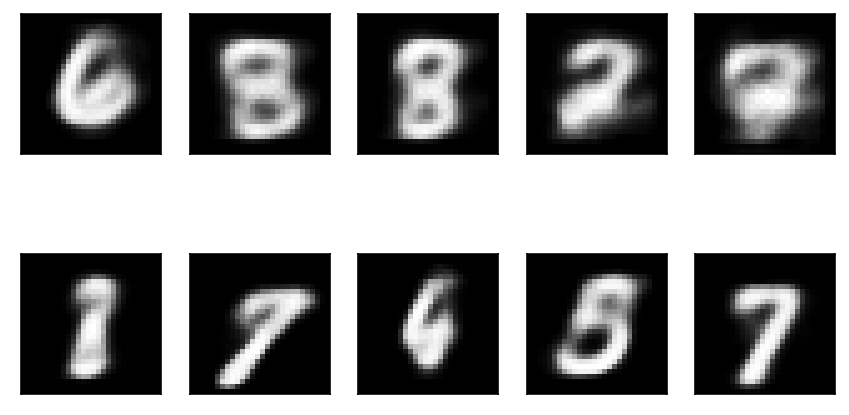
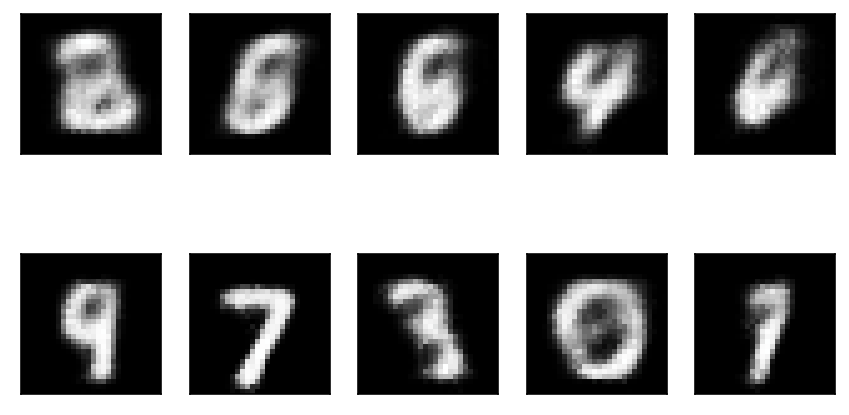
MNIST sanity check for ConvVAE

diff --git a/docs/spatial-vae.html b/docs/spatial-vae.html
@@ -1,7 +1,7 @@
 <!DOCTYPE html>
 <html lang="en">
 <head>
-<!-- 2020-10-01 Thu 17:04 -->
+<!-- 2020-10-06 Tue 13:50 -->
 <meta charset="utf-8">
 <meta name="viewport" content="width=device-width, initial-scale=1">
 <title>Convolutional VAE for spatial transcriptomic data</title>
@@ -385,6 +385,7 @@ learned \(\vz_j\).</li>
 <span class="org-keyword">import</span> torch.utils.data <span class="org-keyword">as</span> td
 <span class="org-keyword">import</span> torch.utils.tensorboard <span class="org-keyword">as</span> tb
 <span class="org-keyword">import</span> torchvision <span class="org-keyword">as</span> tv
+<span class="org-keyword">import</span> umap
 </pre>
 </div>
 
@@ -418,7 +419,8 @@ cancer</a> (10X Genomics Visium v1.1.0)</li>
 olfactory bulb</a> (HDST;
 <a href="https://www.nature.com/articles/s41592-019-0548-y">Vikovic et
 al. 2019</a>)</li>
-<li>Human spinal cord
+<li><a href="https://www.ncbi.nlm.nih.gov/geo/query/acc.cgi?acc=GSE120374">Human
+spinal cord</a>
 (<a href="https://science.sciencemag.org/content/364/6435/89.full">Maniatis et
 al. 2019</a>)</li>
 <li>Mouse cerebellum (SLIDE-Seq;
@@ -433,7 +435,7 @@ al. 2018</a>)</li>
 <li>Human melanoma (ST;
 <a href="https://cancerres.aacrjournals.org/content/78/20/5970.short">Thrane et
 al. 2018</a>)</li>
-<li>Human heart (ST; <a href="https://www.nature.com/articles/s41598-018-27627-3">Asp
+<li>Human heart (ST; <a href="https://www.nature.com/articles/s41598-017-13462-5">Asp
 et al. 2017</a>)</li>
 <li>Human breast cancer (ST;
 <a href="https://science.sciencemag.org/content/353/6294/78">Ståhl et al. 2016</a>)</li>
@@ -453,7 +455,9 @@ et al. 2017</a>)</li>
 <div class="outline-text-3" id="text-orge61c045">
 <p>
 Implement a VAE using convolutional layers instead of fully connected
-layers.
+layers. Refer to
+<a href="https://www.jeremyjordan.me/convnet-architectures/">&ldquo;Common architectures
+in convolutional neural networks&rdquo;</a>.
 </p>
 
 <div class="org-src-container">
@@ -461,12 +465,12 @@ layers.
   <span class="org-keyword">def</span> <span class="org-function-name">__init__</span>(<span class="org-keyword">self</span>, input_h, input_w, output_dim):
     <span class="org-builtin">super</span>().__init__()
     <span class="org-keyword">self</span>.net = torch.nn.Sequential(
-      torch.nn.Conv2d(in_channels=1, out_channels=32, kernel_size=3, padding=1),
+      torch.nn.Conv2d(in_channels=1, out_channels=16, kernel_size=3, padding=1, stride=2),
       torch.nn.ReLU(),
-      torch.nn.Conv2d(in_channels=32, out_channels=64, kernel_size=3, padding=1),
+      torch.nn.Conv2d(in_channels=16, out_channels=32, kernel_size=3, padding=1, stride=2),
       torch.nn.ReLU(),
       torch.nn.Flatten(),
-      torch.nn.Linear(64 * input_h * input_w, 1024),
+      torch.nn.Linear(32 * input_h * input_w // 16, 1024),
       torch.nn.ReLU(),
       torch.nn.Linear(1024, 512),
       torch.nn.ReLU(),
@@ -480,29 +484,35 @@ layers.
     <span class="org-variable-name">h</span> = <span class="org-keyword">self</span>.net(x)
     <span class="org-keyword">return</span> <span class="org-keyword">self</span>.mean(h), <span class="org-keyword">self</span>.scale(h)
 
+<span class="org-keyword">class</span> <span class="org-type">Reshape</span>(torch.nn.Module):
+  <span class="org-keyword">def</span> <span class="org-function-name">__init__</span>(<span class="org-keyword">self</span>, shape):
+    <span class="org-builtin">super</span>().__init__()
+    <span class="org-keyword">self</span>.shape = shape
+
+  <span class="org-keyword">def</span> <span class="org-function-name">forward</span>(<span class="org-keyword">self</span>, x):
+    <span class="org-keyword">return</span> torch.reshape(x, <span class="org-keyword">self</span>.shape)
+
 <span class="org-keyword">class</span> <span class="org-type">Decoder</span>(torch.nn.Module):
   <span class="org-keyword">def</span> <span class="org-function-name">__init__</span>(<span class="org-keyword">self</span>, input_dim, output_h, output_w):
     <span class="org-builtin">super</span>().__init__()
-    <span class="org-keyword">self</span>.net1 = torch.nn.Sequential(
+    <span class="org-keyword">self</span>.net = torch.nn.Sequential(
       torch.nn.Linear(input_dim, 512),
       torch.nn.ReLU(),
       torch.nn.Linear(512, 1024),
       torch.nn.ReLU(),
-      torch.nn.Linear(1024, 64 * output_h * output_w),
+      torch.nn.Linear(1024, 32 * output_h * output_w // 16),
       torch.nn.ReLU(),
-    )
-    <span class="org-keyword">self</span>.net2 = torch.nn.Sequential(
-      torch.nn.ConvTranspose2d(in_channels=64, out_channels=32, kernel_size=3, padding=1),
+      Reshape([-1, 32, output_h // 4, output_w // 4]),
+      torch.nn.ConvTranspose2d(in_channels=32, out_channels=16, kernel_size=3, stride=2, padding=1, output_padding=1),
       torch.nn.ReLU(),
-      torch.nn.ConvTranspose2d(in_channels=32, out_channels=1, kernel_size=3, padding=1),
+      torch.nn.ConvTranspose2d(in_channels=16, out_channels=1, kernel_size=3, stride=2, padding=1, output_padding=1),
       torch.nn.Sigmoid(),
     )
     <span class="org-keyword">self</span>.output_h = output_h
     <span class="org-keyword">self</span>.output_w = output_w
 
   <span class="org-keyword">def</span> <span class="org-function-name">forward</span>(<span class="org-keyword">self</span>, x):
-    <span class="org-variable-name">h</span> = <span class="org-keyword">self</span>.net1(x).reshape([-1, 64, <span class="org-keyword">self</span>.output_h, <span class="org-keyword">self</span>.output_w])
-    <span class="org-keyword">return</span> <span class="org-keyword">self</span>.net2(h)
+    <span class="org-keyword">return</span> <span class="org-keyword">self</span>.net(x)
 
 <span class="org-keyword">class</span> <span class="org-type">ConvVAE</span>(torch.nn.Module):
   <span class="org-keyword">def</span> <span class="org-function-name">__init__</span>(<span class="org-keyword">self</span>, input_h, input_w, latent_dim):
@@ -533,7 +543,7 @@ layers.
       <span class="org-variable-name">n_samples</span> = torch.Size([1])
     <span class="org-keyword">if</span> torch.cuda.is_available():
       <span class="org-keyword">self</span>.cuda()
-    <span class="org-variable-name">opt</span> = torch.optim.RMSprop(<span class="org-keyword">self</span>.parameters(), **kwargs)
+    <span class="org-variable-name">opt</span> = torch.optim.Adam(<span class="org-keyword">self</span>.parameters(), **kwargs)
     <span class="org-variable-name">global_step</span> = 0
     <span class="org-keyword">for</span> epoch <span class="org-keyword">in</span> <span class="org-builtin">range</span>(n_epochs):
       <span class="org-keyword">for</span> x, y <span class="org-keyword">in</span> data:
@@ -563,12 +573,13 @@ layers.
 <div class="org-src-container">
 <pre class="src src-ipython"><span class="org-variable-name">latent_dim</span> = 4
 <span class="org-variable-name">n_epochs</span> = 2
-<span class="org-variable-name">run</span> = 5
+<span class="org-variable-name">run</span> = 3
+torch.manual_seed(run)
 <span class="org-variable-name">model</span> = ConvVAE(input_h=28, input_w=28, latent_dim=latent_dim)
 model.fit(mnist_train,
           n_epochs=n_epochs,
-          lr=1e-5,
-          log_dir=f<span class="org-string">'runs/convvae/mnist/latent_{latent_dim}_epochs_{n_epochs}_run_{run}'</span>)
+          lr=1e-4,
+          log_dir=f<span class="org-string">'runs/convvae/mnist/stride_latent_{latent_dim}_epochs_{n_epochs}_run_{run}'</span>)
 </pre>
 </div>
 
@@ -576,12 +587,12 @@ model.fit(mnist_train,
 ConvVAE(
 (encoder): Encoder(
 (net): Sequential(
-(0): Conv2d(1, 32, kernel_size=(3, 3), stride=(1, 1), padding=(1, 1))
+(0): Conv2d(1, 16, kernel_size=(3, 3), stride=(2, 2), padding=(1, 1))
 (1): ReLU()
-(2): Conv2d(32, 64, kernel_size=(3, 3), stride=(1, 1), padding=(1, 1))
+(2): Conv2d(16, 32, kernel_size=(3, 3), stride=(2, 2), padding=(1, 1))
 (3): ReLU()
 (4): Flatten()
-(5): Linear(in_features=50176, out_features=1024, bias=True)
+(5): Linear(in_features=1568, out_features=1024, bias=True)
 (6): ReLU()
 (7): Linear(in_features=1024, out_features=512, bias=True)
 (8): ReLU()
@@ -593,23 +604,31 @@ ConvVAE(
 )
 )
 (decoder): Decoder(
-(net1): Sequential(
+(net): Sequential(
 (0): Linear(in_features=4, out_features=512, bias=True)
 (1): ReLU()
 (2): Linear(in_features=512, out_features=1024, bias=True)
 (3): ReLU()
-(4): Linear(in_features=1024, out_features=50176, bias=True)
+(4): Linear(in_features=1024, out_features=1568, bias=True)
 (5): ReLU()
-)
-(net2): Sequential(
-(0): ConvTranspose2d(64, 32, kernel_size=(3, 3), stride=(1, 1), padding=(1, 1))
-(1): ReLU()
-(2): ConvTranspose2d(32, 1, kernel_size=(3, 3), stride=(1, 1), padding=(1, 1))
-(3): Sigmoid()
+(6): Reshape()
+(7): ConvTranspose2d(32, 16, kernel_size=(3, 3), stride=(2, 2), padding=(1, 1), output_padding=(1, 1))
+(8): ReLU()
+(9): ConvTranspose2d(16, 1, kernel_size=(3, 3), stride=(2, 2), padding=(1, 1), output_padding=(1, 1))
+(10): Sigmoid()
 )
 )
 )
 </pre>
+
+<p>
+Serialize the fitted model parameters.
+</p>
+
+<div class="org-src-container">
+<pre class="src src-ipython">torch.save(model.state_dict(), f<span class="org-string">'/scratch/midway2/aksarkar/singlecell/mnist-stride_latent_{latent_dim}_epochs_{n_epochs}_run_{run}.pt'</span>)
+</pre>
+</div>
 
 <p>
 Draw some samples.
@@ -639,13 +658,89 @@ fig.tight_layout()
 <p><img src="figure/spatial-vae.org/mnist-ex.png" alt="mnist-ex.png">
 </p>
 </div>
+
+<p>
+Plot the latent space.
+</p>
+
+<div class="org-src-container">
+<pre class="src src-ipython"><span class="org-keyword">with</span> torch.no_grad():
+  <span class="org-variable-name">temp</span> = [(y.numpy(), model.encoder(x.cuda())[0].cpu().numpy()) <span class="org-keyword">for</span> x, y <span class="org-keyword">in</span> mnist_train]
+<span class="org-variable-name">labels</span> = np.hstack([y <span class="org-keyword">for</span> y, _ <span class="org-keyword">in</span> temp])
+<span class="org-variable-name">embed</span> = np.vstack([z <span class="org-keyword">for</span> _, z <span class="org-keyword">in</span> temp])
+</pre>
+</div>
+
+<div class="org-src-container">
+<pre class="src src-ipython"><span class="org-variable-name">u</span>, <span class="org-variable-name">d</span>, <span class="org-variable-name">vt</span> = np.linalg.svd(embed, full_matrices=<span class="org-constant">False</span>)
+</pre>
+</div>
+
+<div class="org-src-container">
+<pre class="src src-ipython"><span class="org-variable-name">cm</span> = plt.get_cmap(<span class="org-string">'Set3'</span>)
+plt.clf()
+<span class="org-variable-name">fig</span>, <span class="org-variable-name">ax</span> = plt.subplots(1, 3, sharey=<span class="org-constant">True</span>)
+fig.set_size_inches(7.5, 2.5)
+<span class="org-keyword">for</span> k, a <span class="org-keyword">in</span> <span class="org-builtin">enumerate</span>(ax):
+  <span class="org-keyword">for</span> y <span class="org-keyword">in</span> <span class="org-builtin">range</span>(10):
+    <span class="org-variable-name">idx</span> = labels == y
+    a.scatter(embed[idx,k + 1], embed[idx,0], s=1, alpha=0.25, c=np.array(cm(y)).reshape(1, -1), label=y)
+  a.set_xlabel(f<span class="org-string">'PC {k + 2}'</span>)
+ax[0].set_ylabel(<span class="org-string">'PC 1'</span>)
+<span class="org-variable-name">leg</span> = ax[-1].legend(frameon=<span class="org-constant">False</span>, markerscale=4, handletextpad=0, loc=<span class="org-string">'center left'</span>, bbox_to_anchor=(1, .5))
+<span class="org-keyword">for</span> h <span class="org-keyword">in</span> leg.legendHandles:
+  h.set_alpha(1)
+fig.tight_layout()
+</pre>
+</div>
+
+
+<div class="figure">
+<p><img src="figure/spatial-vae.org/mnist-cvae-latent-pca.png" alt="mnist-cvae-latent-pca.png">
+</p>
+</div>
+
+<div class="org-src-container">
+<pre class="src src-ipython"><span class="org-variable-name">umaps</span> = <span class="org-builtin">dict</span>()
+<span class="org-keyword">for</span> n_neighbors <span class="org-keyword">in</span> (5, 10, 25, 50):
+  <span class="org-keyword">print</span>(f<span class="org-string">'fitting {n_neighbors}'</span>)
+  <span class="org-variable-name">umaps</span>[n_neighbors] = umap.UMAP(n_neighbors=n_neighbors, min_dist=0, metric=<span class="org-string">'euclidean'</span>, random_state=1).fit_transform(embed)
+</pre>
+</div>
+
+<div class="org-src-container">
+<pre class="src src-ipython"><span class="org-variable-name">cm</span> = plt.get_cmap(<span class="org-string">'Set3'</span>)
+plt.clf()
+<span class="org-variable-name">fig</span>, <span class="org-variable-name">ax</span> = plt.subplots(1, 4, sharex=<span class="org-constant">True</span>, sharey=<span class="org-constant">True</span>)
+fig.set_size_inches(7.5, 2.5)
+<span class="org-keyword">for</span> k, a <span class="org-keyword">in</span> <span class="org-builtin">zip</span>(umaps, ax):
+  <span class="org-keyword">for</span> y <span class="org-keyword">in</span> <span class="org-builtin">range</span>(10):
+    <span class="org-variable-name">idx</span> = labels == y
+    a.scatter(umaps[k][idx,0], umaps[k][idx,1], s=1, alpha=0.25, c=np.array(cm(y)).reshape(1, -1), label=y)
+  a.set_title(f<span class="org-string">'k = {k}'</span>)
+  a.set_xlabel(<span class="org-string">'UMAP 1'</span>)
+  a.set_xticks([])
+  a.set_yticks([])
+ax[0].set_ylabel(<span class="org-string">'UMAP 2'</span>)
+<span class="org-variable-name">leg</span> = ax[-1].legend(frameon=<span class="org-constant">False</span>, markerscale=4, handletextpad=0, loc=<span class="org-string">'center left'</span>, bbox_to_anchor=(1, .5))
+<span class="org-keyword">for</span> h <span class="org-keyword">in</span> leg.legendHandles:
+  h.set_alpha(1)
+fig.tight_layout()
+</pre>
+</div>
+
+
+<div class="figure">
+<p><img src="figure/spatial-vae.org/mnist-cvae-latent-umap.png" alt="mnist-cvae-latent-umap.png">
+</p>
+</div>
 </div>
 </div>
 </div>
 </div>
 <div id="postamble" class="status">
 <p class="author">Author: Abhishek Sarkar</p>
-<p class="date">Created: 2020-10-01 Thu 17:04</p>
+<p class="date">Created: 2020-10-06 Tue 13:50</p>
 <p class="validation"><a href="http://validator.w3.org/check?uri=referer">Validate</a></p>
 </div>
 </body>
